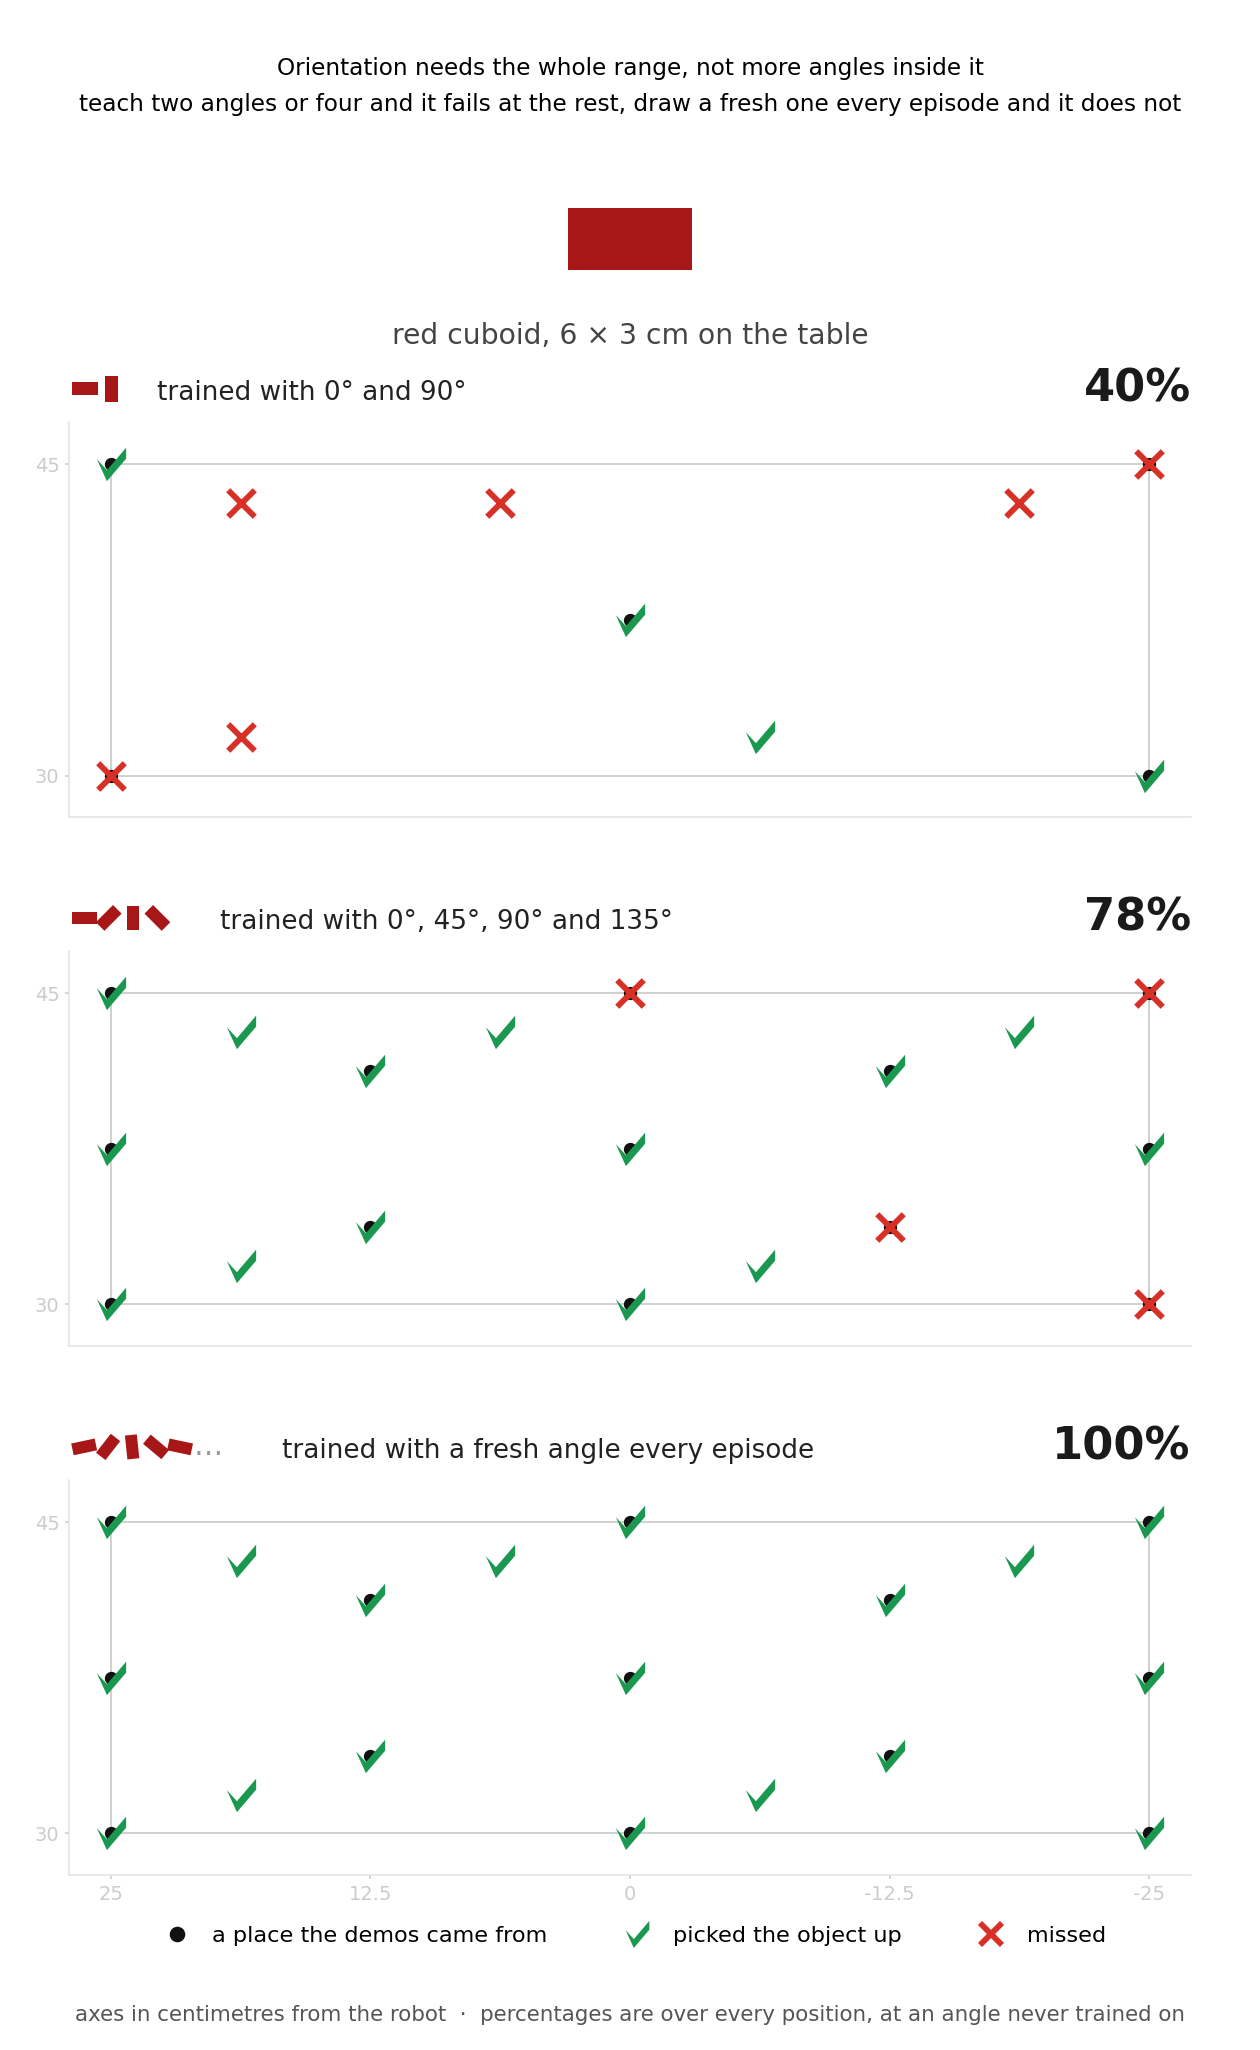
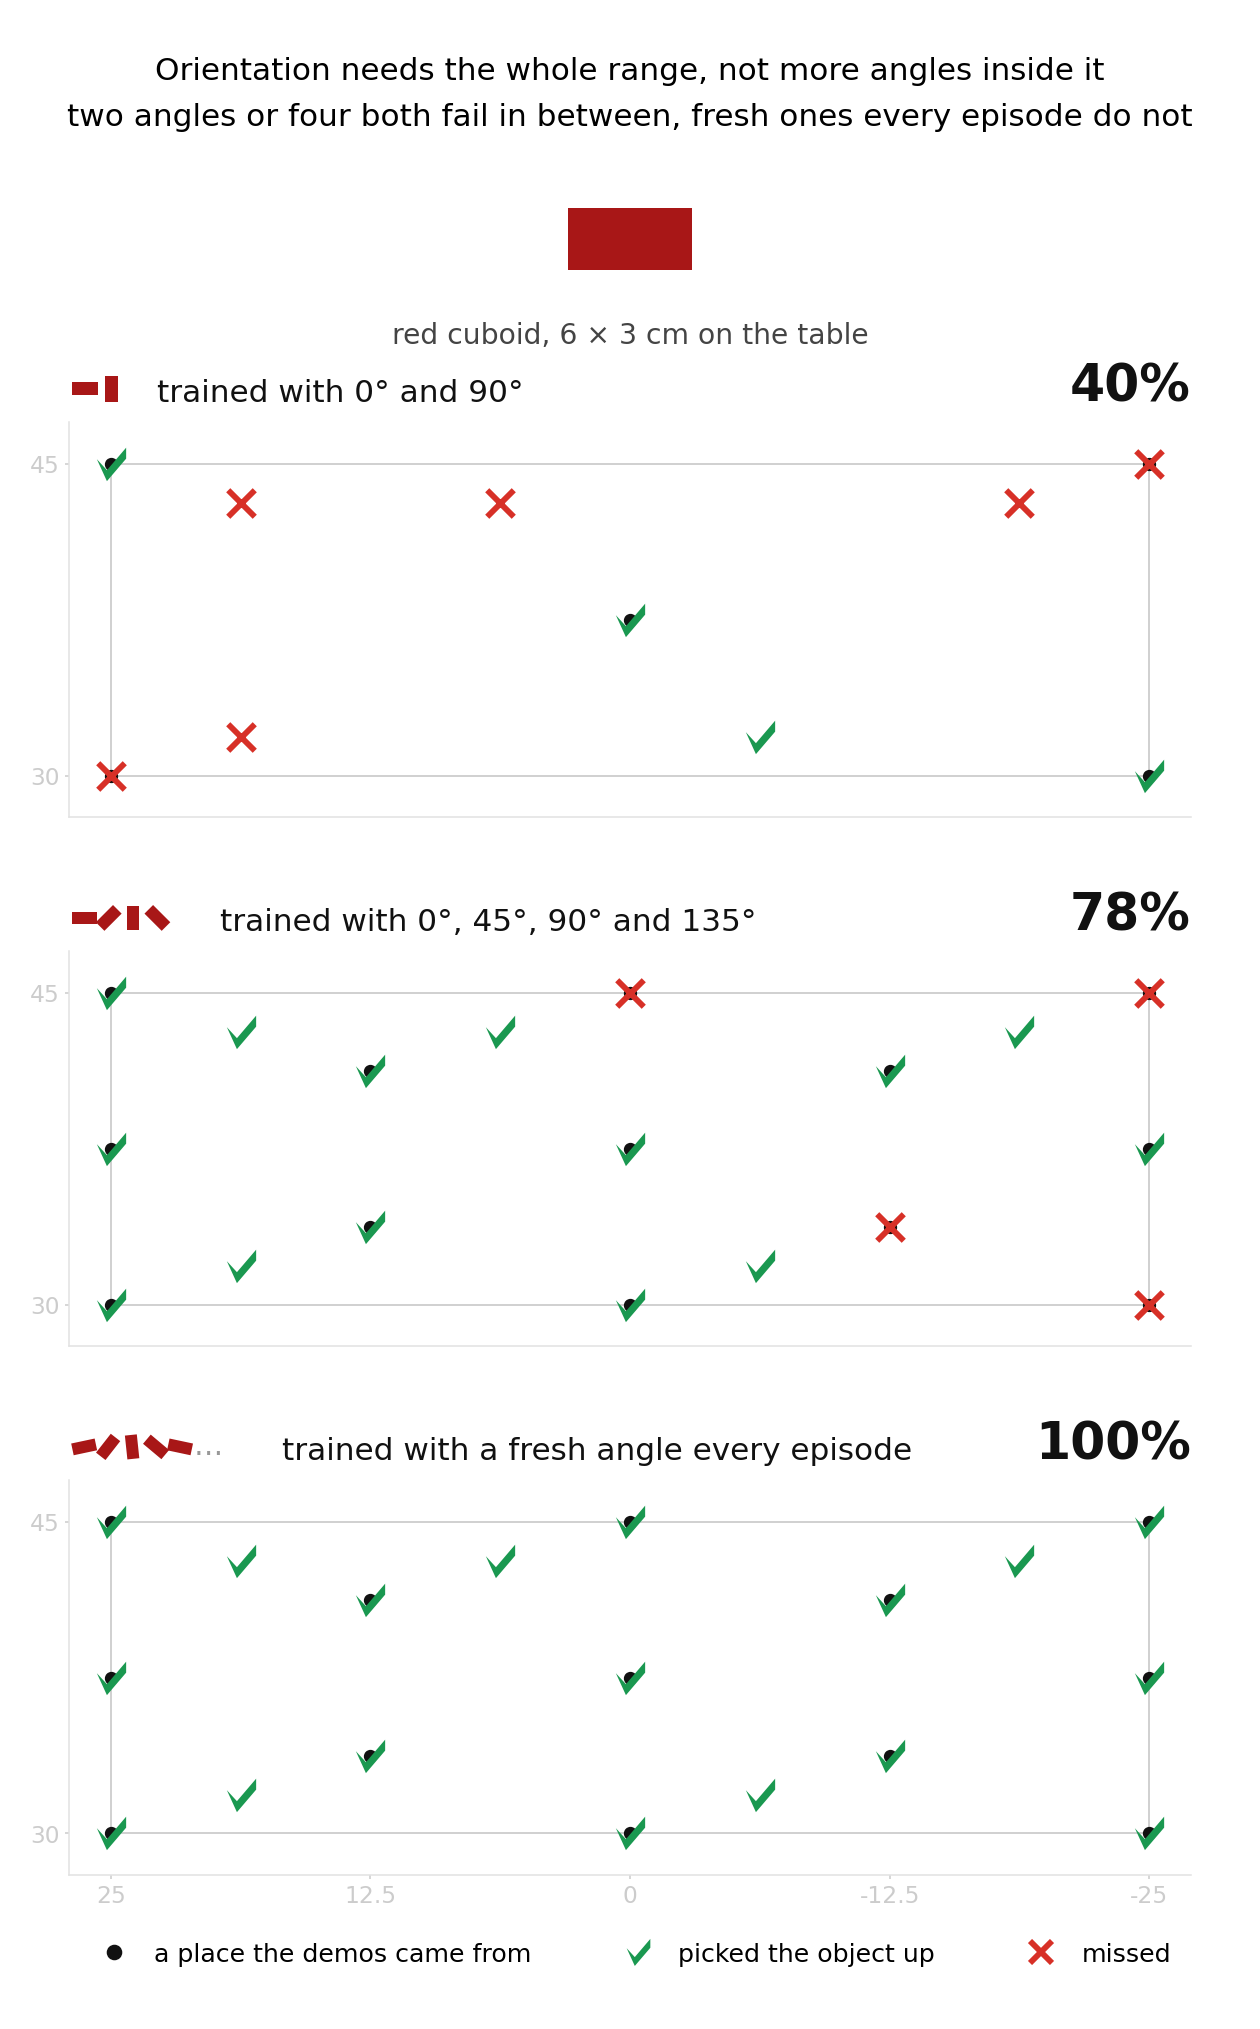
cut down words

diff --git a/_projects/vla_sim_to_real.md b/_projects/vla_sim_to_real.md
@@ -95,15 +95,15 @@ On the real Franka, with nothing changed but the robot, the same policy picked u
 
 <img src="{{ '/assets/images/sim_to_real.png' | relative_url }}" alt="Real robot grasp success against episode budget, with failure mode at each budget" class="figure">
 
-The failures say more than the number. It was not reaching for the object and missing, it was driving the gripper into the table, which is what a policy does when it has no idea where the object is. A 30% success rate here tells you nothing about how far from working you are.
+The failures say more than the number. It was not reaching and missing, it was driving the gripper into the table: a policy with no idea where the object is, not one slightly off.
 
-At 390 episodes the rate is 60% and the catastrophic failures are gone. Every failure is a missed reach or a dropped lift. The failure mode changed a full step before the success rate finished moving. At 650 episodes, 5 times what the task needed in simulation, it reaches 90%, essentially the simulation number.
+At 390 episodes, 60%, and the crashes are gone, leaving missed reaches and dropped lifts. The failure mode changed before the success rate finished moving. At 650, five times the simulation requirement, 90%.
 
-Five times, not fifty. The original estimate assumed the policy has to see the combinations of everything being randomized. At 650 episodes, 87% of the sky, table, object colour and position combinations never occurred once, and it scored 90% anyway. Each setting only has to be covered on its own, and every episode redraws all of them at once: 96% of each range by 130 episodes, 99% by 650.
+Five times, not fifty. Fifty assumed the policy has to see combinations of the randomized settings. At 650 episodes, 87% of the sky, table, colour and position combinations never occurred once, and it scored 90% anyway. Each setting only has to be covered on its own, and every episode redraws all of them at once: 96% of each range by 130 episodes, 99% by 650.
 
-That explains why the extra data is small, not why it is 5 and not 1. By 130 episodes no meaningful holes are left in any range, and 130 is where the real robot was still driving into the table. The 650 is measured, not derived. My reading is that covering a range and learning to ignore it are different problems and the second needs more data, but that is an interpretation, and the ablation that would settle it, 650 episodes with the randomization ranges collapsed, has not been run.
+That explains why the extra data is small, not why it is 5 and not 1. By 130 episodes no meaningful holes are left in any range, and 130 is where the robot was still hitting the table. Covering a range and learning to ignore it may be different problems, but the 650 is measured, not derived, and the ablation that would settle it has not been run.
 
-Spread the same 650 episodes across 8 objects instead of 1 and the real robot still runs at 80%, with no catastrophic failures. Every episode of every task samples the same randomization, so the requirement applies once to the dataset rather than per task. With a large multi-task dataset collected under randomization, transfer is already covered and new collection should go on new tasks.
+The same 650 episodes spread across 8 objects still gives 80%. Every episode of every task samples the same randomization, so the requirement is per dataset, not per task: with a multi-task dataset already collected under randomization, new collection goes on new tasks.
 
 ### Conclusion
 
@@ -113,9 +113,11 @@ Harder trajectories need more data, in simulation as on hardware. The analysis i
 
 Scaled that way, 15 objects at 10 000 episodes reaches nearly 80% on the real robot, with recoveries and with grasps at positions and orientations the policy was never trained on. Objects that were never in the dataset also work when their geometry is close to something that was.
 
-## Future Work
+## Next Steps
 
-**Contact-rich manipulation**, where interaction forces rather than the visual scene decide success. Contact dynamics are the hardest thing for a simulator to get right, so the open question is how far simulation-only data goes before real contact data becomes unavoidable.
+The same recipe applies to longer trajectories and multi-step tasks, as long as the gap is only visual. What changes is how much data is needed, not the method.
+
+Contact-rich tasks need more. The visual part carries over, but forces decide success, so randomization has to extend to friction, mass and inertia, restitution and contact stiffness. The collision approximations also have to be revisited: a coarse convex decomposition is enough when contact only has to be plausible for a grasp, and not when contact is the task.
 
 ## Code
 
